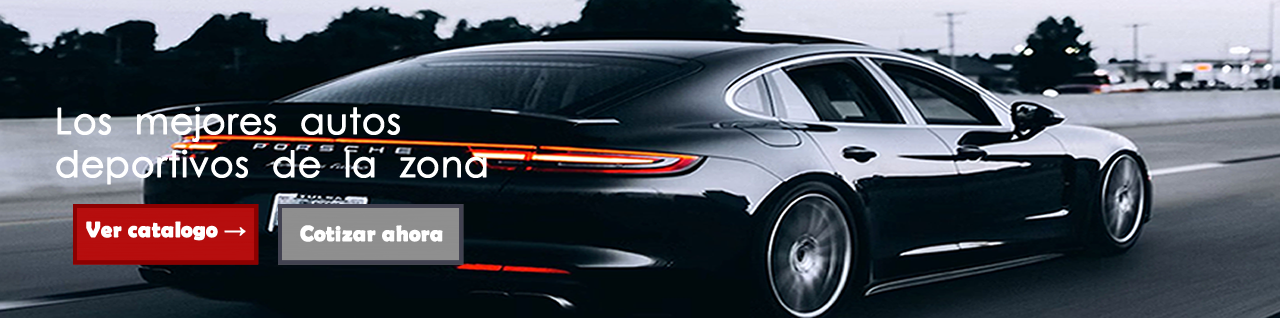
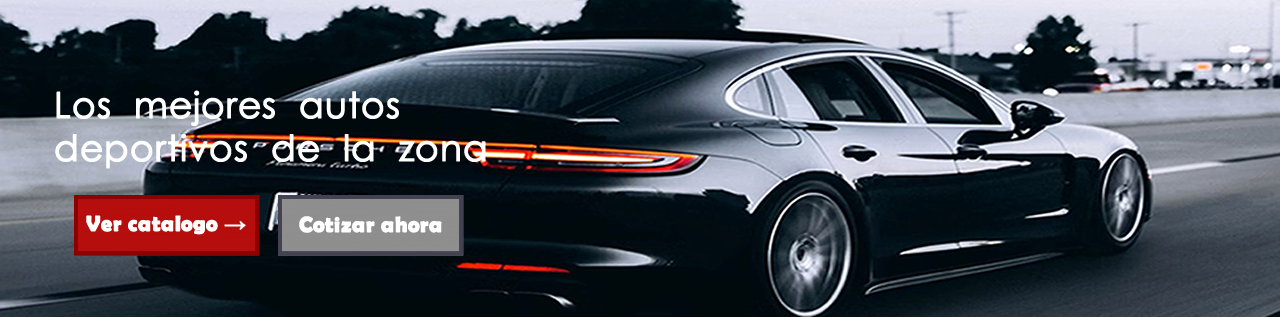
Add files via upload

diff --git a/index.html b/index.html
@@ -5,7 +5,7 @@
 <head>
 <title>index.png</title>
 <meta http-equiv="Content-Type" content="text/html; charset=utf-8" />
-<!--Fireworks CS6 Dreamweaver CS6 target.  Created Wed Sep 10 00:52:17 GMT-0500 2025-->
+<!--Fireworks CS6 Dreamweaver CS6 target.  Created Wed Sep 10 20:48:54 GMT-0500 2025-->
 <script language="JavaScript1.2" type="text/javascript">
 <!--
 function MM_findObj(n, d) { //v4.01
@@ -36,106 +36,134 @@ function MM_preloadImages() { //v3.0
 	@import url("./index.css");
 </style>
 </head>
-<body bgcolor="#ffffff" onload="MM_preloadImages('autos.jfif','accesorios.webp','llantass.jpg');">
+<body bgcolor="#ffffff" onload="MM_preloadImages('llantass.jpg','autos.jfif','accesorios.webp');">
 <div id="FWTableContainer1197122530">
 <table style="display: inline-table;" border="0" cellpadding="0" cellspacing="0" width="1280">
 <!-- fwtable fwsrc="index.fw.png" fwpage="Página 1" fwbase="index.png" fwstyle="Dreamweaver" fwdocid = "1197122530" fwnested="0" -->
   <tr>
-   <td><img src="spacer.gif" width="106" height="1" alt="" /></td>
+   <td><img src="spacer.gif" width="108" height="1" alt="" /></td>
    <td><img src="spacer.gif" width="273" height="1" alt="" /></td>
    <td><img src="spacer.gif" width="120" height="1" alt="" /></td>
-   <td><img src="spacer.gif" width="75" height="1" alt="" /></td>
+   <td><img src="spacer.gif" width="74" height="1" alt="" /></td>
    <td><img src="spacer.gif" width="132" height="1" alt="" /></td>
    <td><img src="spacer.gif" width="24" height="1" alt="" /></td>
-   <td><img src="spacer.gif" width="42" height="1" alt="" /></td>
-   <td><img src="spacer.gif" width="90" height="1" alt="" /></td>
+   <td><img src="spacer.gif" width="43" height="1" alt="" /></td>
+   <td><img src="spacer.gif" width="89" height="1" alt="" /></td>
    <td><img src="spacer.gif" width="20" height="1" alt="" /></td>
-   <td><img src="spacer.gif" width="23" height="1" alt="" /></td>
-   <td><img src="spacer.gif" width="109" height="1" alt="" /></td>
+   <td><img src="spacer.gif" width="22" height="1" alt="" /></td>
+   <td><img src="spacer.gif" width="110" height="1" alt="" /></td>
    <td><img src="spacer.gif" width="27" height="1" alt="" /></td>
    <td><img src="spacer.gif" width="132" height="1" alt="" /></td>
-   <td><img src="spacer.gif" width="5" height="1" alt="" /></td>
+   <td><img src="spacer.gif" width="4" height="1" alt="" /></td>
    <td><img src="spacer.gif" width="102" height="1" alt="" /></td>
    <td><img src="spacer.gif" width="1" height="1" alt="" /></td>
   </tr>
 
   <tr>
-   <td colspan="15"><img name="index_r1_c1" src="index_r1_c1.png" width="1280" height="38" id="index_r1_c1" usemap="#m_index_r1_c1" alt="" /></td>
-   <td><img src="spacer.gif" width="1" height="38" alt="" /></td>
+   <td colspan="15"><img name="index_r1_c1" src="index_r1_c1.png" width="1280" height="23" id="index_r1_c1" usemap="#m_index_r1_c1" alt="" /></td>
+   <td><img src="spacer.gif" width="1" height="23" alt="" /></td>
   </tr>
   <tr>
-   <td rowspan="6" colspan="4"><img name="index_r2_c1" src="index_r2_c1.png" width="574" height="68" id="index_r2_c1" usemap="#m_index_r2_c1" alt="" /></td>
+   <td rowspan="6" colspan="4"><img name="index_r2_c1" src="index_r2_c1.png" width="575" height="65" id="index_r2_c1" usemap="#m_index_r2_c1" alt="" /></td>
    <td rowspan="3"><a href="javascript:;" onmouseout="MM_menuStartTimeout(10);" onmouseover="MM_menuShowMenu('MMMenuContainer0909235448_0', 'MMMenu0909235448_0',0,41,'index_r2_c5');"><img name="index_r2_c5" src="index_r2_c5.png" width="132" height="41" id="index_r2_c5" alt="" /></a></td>
-   <td colspan="10"><img name="index_r2_c6" src="index_r2_c6.png" width="574" height="1" id="index_r2_c6" alt="" /></td>
+   <td colspan="10"><img name="index_r2_c6" src="index_r2_c6.png" width="573" height="1" id="index_r2_c6" alt="" /></td>
    <td><img src="spacer.gif" width="1" height="1" alt="" /></td>
   </tr>
   <tr>
-   <td rowspan="5"><img name="index_r3_c6" src="index_r3_c6.png" width="24" height="67" id="index_r3_c6" alt="" /></td>
+   <td rowspan="5"><img name="index_r3_c6" src="index_r3_c6.png" width="24" height="64" id="index_r3_c6" alt="" /></td>
    <td rowspan="3" colspan="2"><a href="javascript:;" onmouseout="MM_menuStartTimeout(10);" onmouseover="MM_menuShowMenu('MMMenuContainer0909235817_1', 'MMMenu0909235817_1',0,41,'index_r3_c7');"><img name="index_r3_c7" src="index_r3_c7.png" width="132" height="41" id="index_r3_c7" alt="" /></a></td>
-   <td rowspan="5"><img name="index_r3_c9" src="index_r3_c9.png" width="20" height="67" id="index_r3_c9" alt="" /></td>
+   <td rowspan="5"><img name="index_r3_c9" src="index_r3_c9.png" width="20" height="64" id="index_r3_c9" alt="" /></td>
    <td rowspan="3" colspan="2"><a href="javascript:;" onmouseout="MM_menuStartTimeout(10);" onmouseover="MM_menuShowMenu('MMMenuContainer0909235905_2', 'MMMenu0909235905_2',0,41,'index_r3_c10');"><img name="index_r3_c10" src="index_r3_c10.png" width="132" height="41" id="index_r3_c10" alt="" /></a></td>
-   <td colspan="4"><img name="index_r3_c12" src="index_r3_c12.png" width="266" height="1" id="index_r3_c12" alt="" /></td>
+   <td colspan="4"><img name="index_r3_c12" src="index_r3_c12.png" width="265" height="1" id="index_r3_c12" alt="" /></td>
    <td><img src="spacer.gif" width="1" height="1" alt="" /></td>
   </tr>
   <tr>
-   <td rowspan="4"><img name="index_r4_c12" src="index_r4_c12.png" width="27" height="66" id="index_r4_c12" alt="" /></td>
+   <td rowspan="4"><img name="index_r4_c12" src="index_r4_c12.png" width="27" height="63" id="index_r4_c12" alt="" /></td>
    <td rowspan="3"><a href="javascript:;" onmouseout="MM_menuStartTimeout(10);" onmouseover="MM_menuShowMenu('MMMenuContainer0909235954_3', 'MMMenu0909235954_3',0,41,'index_r4_c13');"><img name="index_r4_c13" src="index_r4_c13.png" width="132" height="41" id="index_r4_c13" alt="" /></a></td>
-   <td rowspan="4" colspan="2"><img name="index_r4_c14" src="index_r4_c14.png" width="107" height="66" id="index_r4_c14" alt="" /></td>
+   <td rowspan="4" colspan="2"><img name="index_r4_c14" src="index_r4_c14.png" width="106" height="63" id="index_r4_c14" alt="" /></td>
    <td><img src="spacer.gif" width="1" height="39" alt="" /></td>
   </tr>
   <tr>
-   <td rowspan="3"><img name="index_r5_c5" src="index_r5_c5.png" width="132" height="27" id="index_r5_c5" alt="" /></td>
+   <td rowspan="3"><img name="index_r5_c5" src="index_r5_c5.png" width="132" height="24" id="index_r5_c5" alt="" /></td>
    <td><img src="spacer.gif" width="1" height="1" alt="" /></td>
   </tr>
   <tr>
-   <td rowspan="2" colspan="2"><img name="index_r6_c7" src="index_r6_c7.png" width="132" height="26" id="index_r6_c7" alt="" /></td>
-   <td rowspan="2" colspan="2"><img name="index_r6_c10" src="index_r6_c10.png" width="132" height="26" id="index_r6_c10" alt="" /></td>
+   <td rowspan="2" colspan="2"><img name="index_r6_c7" src="index_r6_c7.png" width="132" height="23" id="index_r6_c7" alt="" /></td>
+   <td rowspan="2" colspan="2"><img name="index_r6_c10" src="index_r6_c10.png" width="132" height="23" id="index_r6_c10" alt="" /></td>
    <td><img src="spacer.gif" width="1" height="1" alt="" /></td>
   </tr>
   <tr>
-   <td><img name="index_r7_c13" src="index_r7_c13.png" width="132" height="25" id="index_r7_c13" alt="" /></td>
-   <td><img src="spacer.gif" width="1" height="25" alt="" /></td>
+   <td><img name="index_r7_c13" src="index_r7_c13.png" width="132" height="22" id="index_r7_c13" alt="" /></td>
+   <td><img src="spacer.gif" width="1" height="22" alt="" /></td>
   </tr>
   <tr>
    <td colspan="15"><img name="index_r8_c1" src="index_r8_c1.png" width="1280" height="318" id="index_r8_c1" usemap="#m_index_r8_c1" alt="" /></td>
    <td><img src="spacer.gif" width="1" height="318" alt="" /></td>
   </tr>
   <tr>
-   <td colspan="15"><img name="index_r9_c1" src="index_r9_c1.png" width="1280" height="124" id="index_r9_c1" alt="" /></td>
-   <td><img src="spacer.gif" width="1" height="124" alt="" /></td>
+   <td colspan="15"><img name="index_r9_c1" src="index_r9_c1.png" width="1280" height="97" id="index_r9_c1" alt="" /></td>
+   <td><img src="spacer.gif" width="1" height="97" alt="" /></td>
   </tr>
   <tr>
-   <td rowspan="2"><img name="index_r10_c1" src="index_r10_c1.png" width="106" height="252" id="index_r10_c1" alt="" /></td>
-   <td><a href="javascript:;" onmouseout="MM_swapImgRestore();" onmouseover="MM_swapImage('index_r8_c1','','autos.jfif',1);"><img name="index_r10_c2" src="index_r10_c2.png" width="273" height="59" id="index_r10_c2" alt="" /></a></td>
-   <td rowspan="2"><img name="index_r10_c3" src="index_r10_c3.png" width="120" height="252" id="index_r10_c3" alt="" /></td>
-   <td colspan="4"><a href="javascript:;" onmouseout="MM_swapImgRestore();" onmouseover="MM_swapImage('index_r8_c1','','accesorios.webp',1);"><img name="index_r10_c4" src="index_r10_c4.png" width="273" height="59" id="index_r10_c4" alt="" /></a></td>
-   <td rowspan="2" colspan="3"><img name="index_r10_c8" src="index_r10_c8.png" width="133" height="252" id="index_r10_c8" alt="" /></td>
-   <td colspan="4"><a href="javascript:;" onmouseout="MM_swapImgRestore();" onmouseover="MM_swapImage('index_r8_c1','','llantass.jpg',1);"><img name="index_r10_c11" src="index_r10_c11.png" width="273" height="59" id="index_r10_c11" alt="" /></a></td>
-   <td rowspan="2"><img name="index_r10_c15" src="index_r10_c15.png" width="102" height="252" id="index_r10_c15" alt="" /></td>
-   <td><img src="spacer.gif" width="1" height="59" alt="" /></td>
+   <td colspan="10"><img name="index_r10_c1" src="index_r10_c1.png" width="905" height="2" id="index_r10_c1" alt="" /></td>
+   <td rowspan="2" colspan="4"><a href="javascript:;" onmouseout="MM_swapImgRestore();" onmouseover="MM_swapImage('index_r8_c1','','llantass.jpg',1);"><img name="index_r10_c11" src="index_r10_c11.png" width="273" height="59" id="index_r10_c11" alt="" /></a></td>
+   <td rowspan="4"><img name="index_r10_c15" src="index_r10_c15.png" width="102" height="297" id="index_r10_c15" usemap="#m_index_r10_c15" alt="" /></td>
+   <td><img src="spacer.gif" width="1" height="2" alt="" /></td>
   </tr>
   <tr>
-   <td><img name="index_r11_c2" src="index_r11_c2.png" width="273" height="193" id="index_r11_c2" alt="" /></td>
-   <td colspan="4"><img name="index_r11_c4" src="index_r11_c4.png" width="273" height="193" id="index_r11_c4" alt="" /></td>
-   <td colspan="4"><img name="index_r11_c11" src="index_r11_c11.png" width="273" height="193" id="index_r11_c11" usemap="#m_index_r11_c11" alt="" /></td>
-   <td><img src="spacer.gif" width="1" height="193" alt="" /></td>
+   <td rowspan="3"><img name="index_r11_c1" src="index_r11_c1.png" width="108" height="295" id="index_r11_c1" usemap="#m_index_r11_c1" alt="" /></td>
+   <td rowspan="2"><a href="javascript:;" onmouseout="MM_swapImgRestore();" onmouseover="MM_swapImage('index_r8_c1','','autos.jfif',1);"><img name="index_r11_c2" src="index_r11_c2.png" width="273" height="59" id="index_r11_c2" alt="" /></a></td>
+   <td rowspan="3"><img name="index_r11_c3" src="index_r11_c3.png" width="120" height="295" id="index_r11_c3" usemap="#m_index_r11_c3" alt="" /></td>
+   <td rowspan="2" colspan="4"><a href="javascript:;" onmouseout="MM_swapImgRestore();" onmouseover="MM_swapImage('index_r8_c1','','accesorios.webp',1);"><img name="index_r11_c4" src="index_r11_c4.png" width="273" height="59" id="index_r11_c4" alt="" /></a></td>
+   <td rowspan="3" colspan="3"><img name="index_r11_c8" src="index_r11_c8.png" width="131" height="295" id="index_r11_c8" usemap="#m_index_r11_c8" alt="" /></td>
+   <td><img src="spacer.gif" width="1" height="57" alt="" /></td>
+  </tr>
+  <tr>
+   <td rowspan="2" colspan="4"><img name="index_r12_c11" src="index_r12_c11.png" width="273" height="238" id="index_r12_c11" usemap="#m_index_r12_c11" alt="" /></td>
+   <td><img src="spacer.gif" width="1" height="2" alt="" /></td>
+  </tr>
+  <tr>
+   <td><img name="index_r13_c2" src="index_r13_c2.png" width="273" height="236" id="index_r13_c2" usemap="#m_index_r13_c2" alt="" /></td>
+   <td colspan="4"><img name="index_r13_c4" src="index_r13_c4.png" width="273" height="236" id="index_r13_c4" usemap="#m_index_r13_c4" alt="" /></td>
+   <td><img src="spacer.gif" width="1" height="236" alt="" /></td>
   </tr>
 </table>
 <map name="m_index_r1_c1" id="m_index_r1_c1">
-<area shape="rect" coords="14,23,303,95" href="index.html" alt="" />
+<area shape="rect" coords="35,16,282,79" href="index.html" alt="" />
 </map>
 <map name="m_index_r2_c1" id="m_index_r2_c1">
-<area shape="rect" coords="14,-15,303,57" href="index.html" alt="" />
-<area shape="rect" coords="446,0,538,42" href="index.html" alt="" />
+<area shape="rect" coords="35,-7,282,56" href="index.html" alt="" />
+<area shape="rect" coords="447,0,539,42" href="index.html" alt="" />
 </map>
 <map name="m_index_r8_c1" id="m_index_r8_c1">
-<area shape="rect" coords="279,204,463,264" href="cotizar.html" alt="" />
-<area shape="rect" coords="73,204,258,264" href="catalogo.html" alt="" />
+<area shape="rect" coords="279,195,463,255" href="cotizar.html" alt="" />
+<area shape="rect" coords="74,195,259,255" href="catalogo.html" alt="" />
 </map>
-<map name="m_index_r11_c11" id="m_index_r11_c11">
-<area shape="rect" coords="125,119,174,165" href="https://www.instagram.com/alejocg._/" alt="" />
-<area shape="rect" coords="210,115,258,165" href="https://api.whatsapp.com/send/?phone=949071956&amp;text&amp;type=phone_number&amp;app_absent=0" alt="" />
-<area shape="rect" coords="39,115,89,165" href="https://web.facebook.com/alejo.cg10?rdid=xj2VWgzxt2TO2A5w&amp;share_url=https%3A%2F%2Fweb.facebook.com%2Fshare%2F16djaYsycc%2F%3F_rdc%3D1%26_rdr#" alt="" />
+<map name="m_index_r10_c15" id="m_index_r10_c15">
+<area shape="rect" coords="-304,108,16,171" href="https://www.rimac.com/" alt="" />
+</map>
+<map name="m_index_r11_c1" id="m_index_r11_c1">
+<area shape="rect" coords="74,98,403,177" href="https://www.mapfre.com.pe/" alt="" />
+</map>
+<map name="m_index_r11_c3" id="m_index_r11_c3">
+<area shape="rect" coords="92,98,420,177" href="https://afdetailing.pe/" alt="" />
+<area shape="rect" coords="-307,98,22,177" href="https://www.mapfre.com.pe/" alt="" />
+</map>
+<map name="m_index_r11_c8" id="m_index_r11_c8">
+<area shape="rect" coords="100,106,420,169" href="https://www.rimac.com/" alt="" />
+<area shape="rect" coords="-301,98,27,177" href="https://afdetailing.pe/" alt="" />
+</map>
+<map name="m_index_r12_c11" id="m_index_r12_c11">
+<area shape="rect" coords="-31,49,289,112" href="https://www.rimac.com/" alt="" />
+<area shape="rect" coords="94,182,130,221" href="https://www.instagram.com/alejocg._/" alt="" />
+<area shape="rect" coords="157,181,193,227" href="https://api.whatsapp.com/send/?phone=949071956&amp;text&amp;type=phone_number&amp;app_absent=0" alt="" />
+<area shape="rect" coords="26,180,65,216" href="https://web.facebook.com/alejo.cg10?rdid=xj2VWgzxt2TO2A5w&amp;share_url=https%3A%2F%2Fweb.facebook.com%2Fshare%2F16djaYsycc%2F%3F_rdc%3D1%26_rdr#" alt="" />
+</map>
+<map name="m_index_r13_c2" id="m_index_r13_c2">
+<area shape="rect" coords="-34,39,295,118" href="https://www.mapfre.com.pe/" alt="" />
+</map>
+<map name="m_index_r13_c4" id="m_index_r13_c4">
+<area shape="rect" coords="-28,39,300,118" href="https://afdetailing.pe/" alt="" />
 </map>
 <div id="MMMenuContainer0909235448_0">
 	<div id="MMMenu0909235448_0" onmouseout="MM_menuStartTimeout(10);" onmouseover="MM_menuResetTimeout();">

diff --git a/index.css b/index.css
@@ -15,8 +15,8 @@ td img {
 #MMMenuContainer0909235448_0 {
 /* This ID is related to the master menu div for menu MMMenuContainer0909235448_0 and contains the important positioning information for the menu as a whole */
 	position:absolute;
-	left:574px;
-	top:79px;
+	left:575px;
+	top:64px;
 	visibility:hidden;
 	z-index:300;
 }
@@ -101,8 +101,8 @@ td img {
 #MMMenuContainer0909235817_1 {
 /* This ID is related to the master menu div for menu MMMenuContainer0909235817_1 and contains the important positioning information for the menu as a whole */
 	position:absolute;
-	left:730px;
-	top:80px;
+	left:731px;
+	top:65px;
 	visibility:hidden;
 	z-index:300;
 }
@@ -193,8 +193,8 @@ td img {
 #MMMenuContainer0909235905_2 {
 /* This ID is related to the master menu div for menu MMMenuContainer0909235905_2 and contains the important positioning information for the menu as a whole */
 	position:absolute;
-	left:882px;
-	top:80px;
+	left:883px;
+	top:65px;
 	visibility:hidden;
 	z-index:300;
 }
@@ -279,8 +279,8 @@ td img {
 #MMMenuContainer0909235954_3 {
 /* This ID is related to the master menu div for menu MMMenuContainer0909235954_3 and contains the important positioning information for the menu as a whole */
 	position:absolute;
-	left:1041px;
-	top:81px;
+	left:1042px;
+	top:66px;
 	visibility:hidden;
 	z-index:300;
 }
